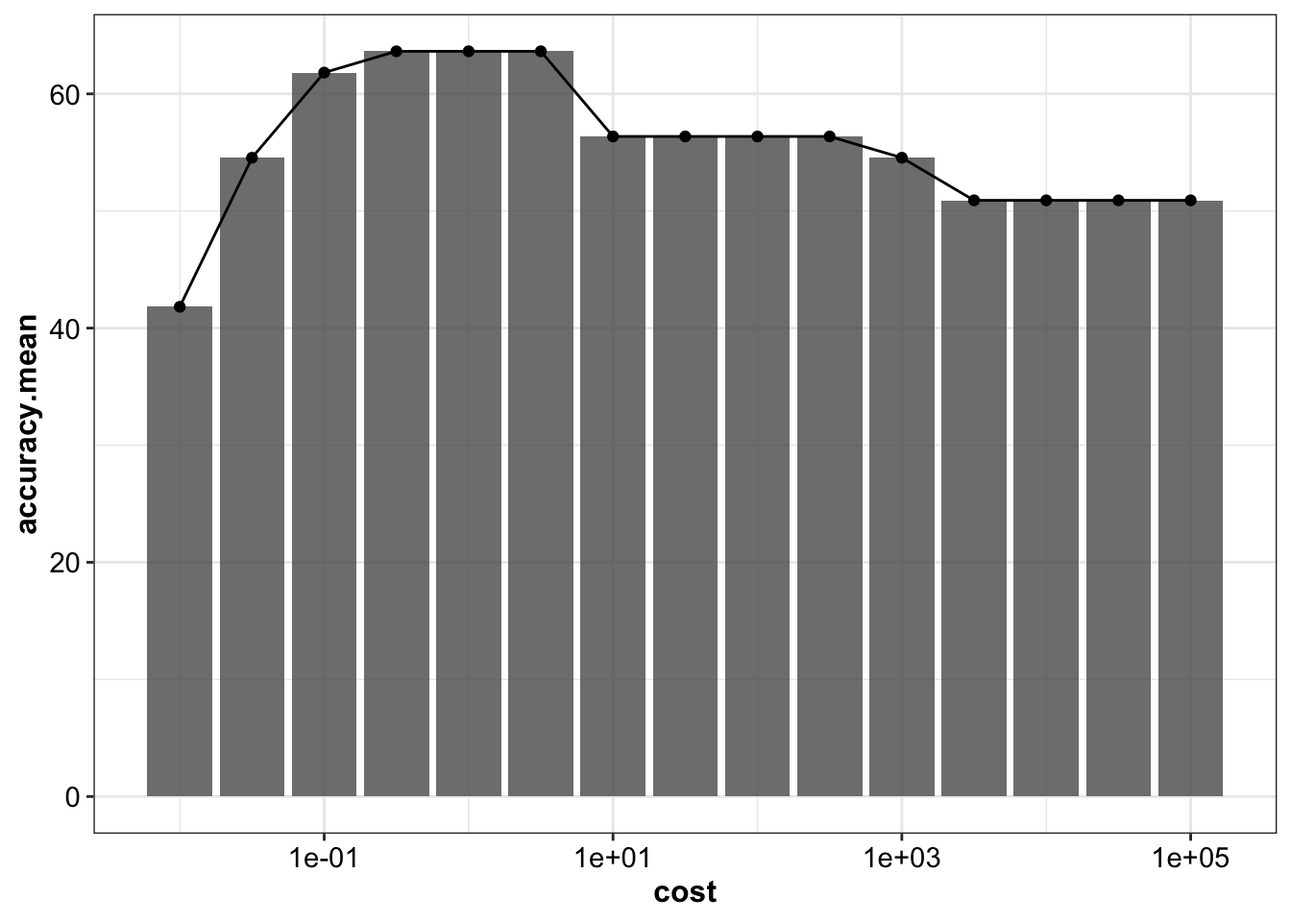
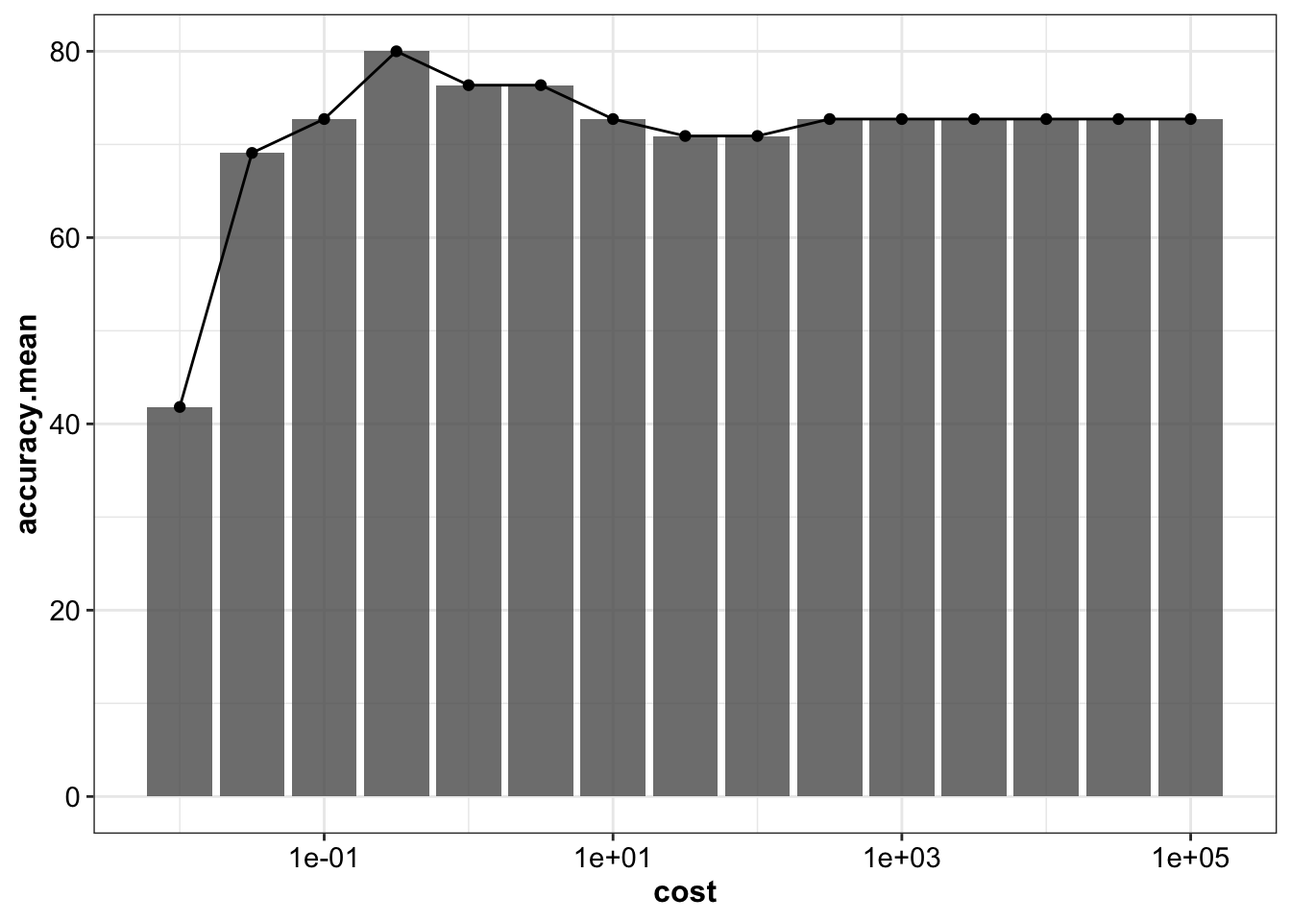
Update

diff --git a/LemonMLscript.html b/LemonMLscript.html
@@ -408,7 +408,7 @@ library(randomForest)
 
 # finally load tidyverse avoiding key functions from being masked
 library(tidyverse)</code></pre>
-<pre class="r"><code>set.seed(2020)</code></pre>
+<pre class="r"><code>set.seed(2021)</code></pre>
 <pre class="r"><code>theme_set(theme_bw() +
             theme(strip.background = element_blank(),
                   strip.text = element_text(face = &quot;bold&quot;, size = 11),
@@ -524,8 +524,8 @@ plot_ly(PC, x = ~ PC1, y =  ~PC2, z =  ~PC3, color = ~ type) %&gt;%
            zaxis = list(title = paste0(&quot;PC3, &quot;, round(eigen.values[3]/sum(eigen.values)* 100, 1), &quot;% explained&quot;))
          )
   )</code></pre>
-<div id="htmlwidget-b85bf888dc62471906a9" style="width:768px;height:768px;" class="plotly html-widget"></div>
-<script type="application/json" data-for="htmlwidget-b85bf888dc62471906a9">{"x":{"visdat":{"10eff5bf4ef":["function () ","plotlyVisDat"]},"cur_data":"10eff5bf4ef","attrs":{"10eff5bf4ef":{"x":{},"y":{},"z":{},"color":{},"alpha_stroke":1,"sizes":[10,100],"spans":[1,20],"type":"scatter3d","mode":"markers","inherit":true}},"layout":{"margin":{"b":40,"l":60,"t":25,"r":10},"title":"3D Interactive PCA","scene":{"xaxis":{"title":"PC1, 38.1% explained"},"yaxis":{"title":"PC2, 13.4% explained"},"zaxis":{"title":"PC3, 9.9% explained"}},"hovermode":"closest","showlegend":true},"source":"A","config":{"showSendToCloud":false},"data":[{"x":[1.29245608021602,0.247327318026684,-2.56149506852184,1.02216854811322,1.02144854861423,0.221324174361603,-0.349045041869286,-0.38581323603689,-1.4821455186857,-2.37404641039611,-2.47684985252583,-3.72650845128052,0.153931476992609,-0.941729558563705,-1.50068529531973,-2.10972450438429,-2.64980884826357,2.13613894537144,-2.37418031730669,0.478180094023784,1.845971833046,-1.45374887861705,1.19418232583957,1.91430361040799,0.066834320382271,1.2127175590955,1.76579567376996],"y":[0.695526168184717,0.590944665242343,-4.1645585667584,1.13948649493847,1.04367370014434,1.38230502942391,-1.98630912501223,1.93770321135043,2.36212232905973,2.14999681352786,2.34829500113664,2.18440733827298,2.75578768016132,3.13716969340722,3.00971177877454,2.81693148679536,1.91489823211499,-1.06640858061311,-2.80357152637204,-0.748953948325587,-1.05436264362873,-2.33095577365992,0.00625489147679137,-0.325453367664005,-1.10722803571808,-0.0557751287201965,0.467505744789272],"z":[-0.153272397784193,-1.07588827668465,4.68854824204557,0.786203717659978,0.029601316090255,0.219153679839619,-3.60423289888726,1.2676637692362,0.708759504389941,1.53239208288905,1.28333869274744,0.31955812246784,1.06207167374108,0.748548555977624,0.877678989830995,1.23804936420199,0.0231827277148735,2.34709583631241,0.298763599570472,-0.868563972996611,1.19368249250316,0.431635919627839,0.141387674072584,1.72946532281876,0.424389806543768,-0.570694829818461,0.0592676898020226],"type":"scatter3d","mode":"markers","name":"adulterated_L_J","marker":{"color":"rgba(102,194,165,1)","line":{"color":"rgba(102,194,165,1)"}},"textfont":{"color":"rgba(102,194,165,1)"},"error_y":{"color":"rgba(102,194,165,1)"},"error_x":{"color":"rgba(102,194,165,1)"},"line":{"color":"rgba(102,194,165,1)"},"frame":null},{"x":[1.11105606348818,0.603039915546309,1.21353582832768,-1.35787019158325,0.19225080551594,-1.21246667581881,-1.45178082404376,-5.68026361836666,-3.16377269996762,-5.02990803003648,-4.96543833095703,-6.93055161425824,-3.2136386608419,-2.25524613183358,-1.90423074658712,-2.40873185573606,-4.16866825809589,-1.24964086402868,0.185187190398568,-2.99485684015602,0.111484893291767,-0.858635390662749,-1.54239194864953,2.07225720546971,1.83438570934901,1.77479111647483],"y":[-0.0859376154201105,-0.142252660854825,0.339587586095071,-0.152230195818979,0.345390365706661,0.260723038277785,-0.00618989387332358,-3.30564951725206,0.580460783900814,-0.00170437349004221,-2.46999529348503,0.183283634350539,-0.808450531398731,-0.558153587576732,-0.36941259219531,-1.77940596421968,-0.563238916320843,0.390317817157598,0.475794889065444,0.429704166707622,0.422730012901104,-0.0546266942913341,0.785547893407879,-0.920957728673648,-0.666756609984423,0.169127635494428],"z":[-0.817328459989141,-0.858211461675529,-0.629340350344767,-2.09800451069364,-1.18016988208466,-1.52645098158561,-1.4207164898772,-0.0830469642365655,-2.06787066093538,-1.90858964613215,-0.3866152999683,1.25046058688634,0.720261245486266,0.527260458222733,0.329804314863947,-0.544993314502189,0.557635333107548,-0.665821738241084,-0.782414382679238,-1.09934787994972,-0.993179712086061,-0.412911159184163,-0.747363795423164,2.28559867183411,1.56272953670896,0.0752991087137491],"type":"scatter3d","mode":"markers","name":"authentic_L_J","marker":{"color":"rgba(252,141,98,1)","line":{"color":"rgba(252,141,98,1)"}},"textfont":{"color":"rgba(252,141,98,1)"},"error_y":{"color":"rgba(252,141,98,1)"},"error_x":{"color":"rgba(252,141,98,1)"},"line":{"color":"rgba(252,141,98,1)"},"frame":null},{"x":[2.05714649351934,2.38757879319326,1.98706631927528,2.46898400690317,1.73913538312126,2.45951764380522,2.38254770319144,2.34711033045327,2.30378739310736,1.75433161273427,1.96369864134024,2.10522487111011,2.21860197339323,2.04435906039219,2.0544860415976,2.215836416796,2.68064964050441,2.25770659306511,1.49205524911911,1.67135779863506,1.90309179689125,2.3097740202158,1.98329764936216,2.31575899554558],"y":[0.423955238003994,0.00123198464260368,-0.700231723171998,0.556190798634687,-0.359181579935747,0.890399063146194,-0.108716821513531,0.395998235607263,0.463757866049253,-0.567813941502302,-0.870631862914607,-0.134451071866694,0.0869403450654771,-0.699917351924463,-0.0693727358762944,-0.0841103318097234,-1.84151340759914,0.334099918173264,-1.29982933293597,-1.17283776144364,-0.368996368680066,-0.588016740559321,-0.74470679201939,-0.339094836108358],"z":[-0.00271240614489784,-0.365869855855512,0.601645728672797,0.612065746738997,-0.35782594284662,0.883021326687573,-0.421366100870039,-0.225735328927382,-0.0744704279938564,-0.649403277140523,-0.977850240900579,-0.786210754766569,-0.226044698531477,-0.224402923208373,-0.615530933647594,-0.473465885341308,2.06979052487044,-0.17176827268735,-0.583666225719361,-1.24209006725691,-0.399331584083848,0.290684984898261,-0.249974151851627,-0.633948204241613],"type":"scatter3d","mode":"markers","name":"lemonade","marker":{"color":"rgba(141,160,203,1)","line":{"color":"rgba(141,160,203,1)"}},"textfont":{"color":"rgba(141,160,203,1)"},"error_y":{"color":"rgba(141,160,203,1)"},"error_x":{"color":"rgba(141,160,203,1)"},"line":{"color":"rgba(141,160,203,1)"},"frame":null}],"highlight":{"on":"plotly_click","persistent":false,"dynamic":false,"selectize":false,"opacityDim":0.2,"selected":{"opacity":1},"debounce":0},"shinyEvents":["plotly_hover","plotly_click","plotly_selected","plotly_relayout","plotly_brushed","plotly_brushing","plotly_clickannotation","plotly_doubleclick","plotly_deselect","plotly_afterplot","plotly_sunburstclick"],"base_url":"https://plot.ly"},"evals":[],"jsHooks":[]}</script>
+<div id="htmlwidget-44474b3e8cd160f85a98" style="width:768px;height:768px;" class="plotly html-widget"></div>
+<script type="application/json" data-for="htmlwidget-44474b3e8cd160f85a98">{"x":{"visdat":{"10eff4756659c":["function () ","plotlyVisDat"]},"cur_data":"10eff4756659c","attrs":{"10eff4756659c":{"x":{},"y":{},"z":{},"color":{},"alpha_stroke":1,"sizes":[10,100],"spans":[1,20],"type":"scatter3d","mode":"markers","inherit":true}},"layout":{"margin":{"b":40,"l":60,"t":25,"r":10},"title":"3D Interactive PCA","scene":{"xaxis":{"title":"PC1, 38.1% explained"},"yaxis":{"title":"PC2, 13.4% explained"},"zaxis":{"title":"PC3, 9.9% explained"}},"hovermode":"closest","showlegend":true},"source":"A","config":{"showSendToCloud":false},"data":[{"x":[1.29245608021602,0.247327318026684,-2.56149506852184,1.02216854811322,1.02144854861423,0.221324174361603,-0.349045041869286,-0.38581323603689,-1.4821455186857,-2.37404641039611,-2.47684985252583,-3.72650845128052,0.153931476992609,-0.941729558563705,-1.50068529531973,-2.10972450438429,-2.64980884826357,2.13613894537144,-2.37418031730669,0.478180094023784,1.845971833046,-1.45374887861705,1.19418232583957,1.91430361040799,0.066834320382271,1.2127175590955,1.76579567376996],"y":[0.695526168184717,0.590944665242343,-4.1645585667584,1.13948649493847,1.04367370014434,1.38230502942391,-1.98630912501223,1.93770321135043,2.36212232905973,2.14999681352786,2.34829500113664,2.18440733827298,2.75578768016132,3.13716969340722,3.00971177877454,2.81693148679536,1.91489823211499,-1.06640858061311,-2.80357152637204,-0.748953948325587,-1.05436264362873,-2.33095577365992,0.00625489147679137,-0.325453367664005,-1.10722803571808,-0.0557751287201965,0.467505744789272],"z":[-0.153272397784193,-1.07588827668465,4.68854824204557,0.786203717659978,0.029601316090255,0.219153679839619,-3.60423289888726,1.2676637692362,0.708759504389941,1.53239208288905,1.28333869274744,0.31955812246784,1.06207167374108,0.748548555977624,0.877678989830995,1.23804936420199,0.0231827277148735,2.34709583631241,0.298763599570472,-0.868563972996611,1.19368249250316,0.431635919627839,0.141387674072584,1.72946532281876,0.424389806543768,-0.570694829818461,0.0592676898020226],"type":"scatter3d","mode":"markers","name":"adulterated_L_J","marker":{"color":"rgba(102,194,165,1)","line":{"color":"rgba(102,194,165,1)"}},"textfont":{"color":"rgba(102,194,165,1)"},"error_y":{"color":"rgba(102,194,165,1)"},"error_x":{"color":"rgba(102,194,165,1)"},"line":{"color":"rgba(102,194,165,1)"},"frame":null},{"x":[1.11105606348818,0.603039915546309,1.21353582832768,-1.35787019158325,0.19225080551594,-1.21246667581881,-1.45178082404376,-5.68026361836666,-3.16377269996762,-5.02990803003648,-4.96543833095703,-6.93055161425824,-3.2136386608419,-2.25524613183358,-1.90423074658712,-2.40873185573606,-4.16866825809589,-1.24964086402868,0.185187190398568,-2.99485684015602,0.111484893291767,-0.858635390662749,-1.54239194864953,2.07225720546971,1.83438570934901,1.77479111647483],"y":[-0.0859376154201105,-0.142252660854825,0.339587586095071,-0.152230195818979,0.345390365706661,0.260723038277785,-0.00618989387332358,-3.30564951725206,0.580460783900814,-0.00170437349004221,-2.46999529348503,0.183283634350539,-0.808450531398731,-0.558153587576732,-0.36941259219531,-1.77940596421968,-0.563238916320843,0.390317817157598,0.475794889065444,0.429704166707622,0.422730012901104,-0.0546266942913341,0.785547893407879,-0.920957728673648,-0.666756609984423,0.169127635494428],"z":[-0.817328459989141,-0.858211461675529,-0.629340350344767,-2.09800451069364,-1.18016988208466,-1.52645098158561,-1.4207164898772,-0.0830469642365655,-2.06787066093538,-1.90858964613215,-0.3866152999683,1.25046058688634,0.720261245486266,0.527260458222733,0.329804314863947,-0.544993314502189,0.557635333107548,-0.665821738241084,-0.782414382679238,-1.09934787994972,-0.993179712086061,-0.412911159184163,-0.747363795423164,2.28559867183411,1.56272953670896,0.0752991087137491],"type":"scatter3d","mode":"markers","name":"authentic_L_J","marker":{"color":"rgba(252,141,98,1)","line":{"color":"rgba(252,141,98,1)"}},"textfont":{"color":"rgba(252,141,98,1)"},"error_y":{"color":"rgba(252,141,98,1)"},"error_x":{"color":"rgba(252,141,98,1)"},"line":{"color":"rgba(252,141,98,1)"},"frame":null},{"x":[2.05714649351934,2.38757879319326,1.98706631927528,2.46898400690317,1.73913538312126,2.45951764380522,2.38254770319144,2.34711033045327,2.30378739310736,1.75433161273427,1.96369864134024,2.10522487111011,2.21860197339323,2.04435906039219,2.0544860415976,2.215836416796,2.68064964050441,2.25770659306511,1.49205524911911,1.67135779863506,1.90309179689125,2.3097740202158,1.98329764936216,2.31575899554558],"y":[0.423955238003994,0.00123198464260368,-0.700231723171998,0.556190798634687,-0.359181579935747,0.890399063146194,-0.108716821513531,0.395998235607263,0.463757866049253,-0.567813941502302,-0.870631862914607,-0.134451071866694,0.0869403450654771,-0.699917351924463,-0.0693727358762944,-0.0841103318097234,-1.84151340759914,0.334099918173264,-1.29982933293597,-1.17283776144364,-0.368996368680066,-0.588016740559321,-0.74470679201939,-0.339094836108358],"z":[-0.00271240614489784,-0.365869855855512,0.601645728672797,0.612065746738997,-0.35782594284662,0.883021326687573,-0.421366100870039,-0.225735328927382,-0.0744704279938564,-0.649403277140523,-0.977850240900579,-0.786210754766569,-0.226044698531477,-0.224402923208373,-0.615530933647594,-0.473465885341308,2.06979052487044,-0.17176827268735,-0.583666225719361,-1.24209006725691,-0.399331584083848,0.290684984898261,-0.249974151851627,-0.633948204241613],"type":"scatter3d","mode":"markers","name":"lemonade","marker":{"color":"rgba(141,160,203,1)","line":{"color":"rgba(141,160,203,1)"}},"textfont":{"color":"rgba(141,160,203,1)"},"error_y":{"color":"rgba(141,160,203,1)"},"error_x":{"color":"rgba(141,160,203,1)"},"line":{"color":"rgba(141,160,203,1)"},"frame":null}],"highlight":{"on":"plotly_click","persistent":false,"dynamic":false,"selectize":false,"opacityDim":0.2,"selected":{"opacity":1},"debounce":0},"shinyEvents":["plotly_hover","plotly_click","plotly_selected","plotly_relayout","plotly_brushed","plotly_brushing","plotly_clickannotation","plotly_doubleclick","plotly_deselect","plotly_afterplot","plotly_sunburstclick"],"base_url":"https://plot.ly"},"evals":[],"jsHooks":[]}</script>
 </div>
 <div id="lda-full-data" class="section level2">
 <h2><span class="header-section-number">3.4</span> LDA (full data)</h2>
@@ -767,16 +767,16 @@ d.tune.svm.radial</code></pre>
 ## # Groups:   gamma [17]
 ##     gamma    cost accuracy.mean accuracy.sd
 ##     &lt;dbl&gt;   &lt;dbl&gt;         &lt;dbl&gt;       &lt;dbl&gt;
-##  1 0.1       3.16          80.0        17.5
-##  2 0.1       1             78.2        15.2
-##  3 0.0316   10             76.4        19.9
-##  4 0.1      10             76.4        18.9
-##  5 0.01     31.6           74.5        17.5
-##  6 0.0316   31.6           74.5        17.5
-##  7 0.1      31.6           74.5        17.5
-##  8 0.1     100             74.5        19.7
-##  9 0.1     316.            74.5        19.7
-## 10 0.1    1000             74.5        19.7
+##  1 0.001    100            81.8        9.09
+##  2 0.0316    10            81.8       11.1 
+##  3 0.1       10            81.8        9.09
+##  4 0.1       31.6          81.8        9.09
+##  5 0.1      100            81.8        9.09
+##  6 0.1      316.           81.8        9.09
+##  7 0.1     1000            81.8        9.09
+##  8 0.1     3162.           81.8        9.09
+##  9 0.1    10000            81.8        9.09
+## 10 0.1    31623.           81.8        9.09
 ## # … with 245 more rows</code></pre>
 <pre class="r"><code># Func. def: plotting SVM hyper-parameter tuning result
 func.plot.tune.HyperParam = function( data, hyper1, hyper2){ 
@@ -827,16 +827,16 @@ d.tune.svm.polynomial</code></pre>
 ## # Groups:   degree [6]
 ##    degree     cost accuracy.mean accuracy.sd
 ##     &lt;int&gt;    &lt;dbl&gt;         &lt;dbl&gt;       &lt;dbl&gt;
-##  1      3     10            74.5        11.9
-##  2      3     31.6          69.1        13.8
-##  3      3    100            69.1        10.4
-##  4      3    316.           69.1        10.4
-##  5      3   1000            69.1        10.4
-##  6      3   3162.           69.1        10.4
-##  7      3  10000            69.1        10.4
-##  8      3  31623.           69.1        10.4
-##  9      3 100000            69.1        10.4
-## 10      5    100            69.1        13.8
+##  1      3     10            80.0        14.9
+##  2      3     31.6          78.2        16.5
+##  3      3    316.           78.2        16.5
+##  4      3   1000            78.2        16.5
+##  5      3   3162.           78.2        16.5
+##  6      3  10000            78.2        16.5
+##  7      3  31623.           78.2        16.5
+##  8      3 100000            78.2        16.5
+##  9      5     31.6          78.2        10.4
+## 10      5    100            78.2        18.9
 ## # … with 80 more rows</code></pre>
 <pre class="r"><code># plot tune result of polynomial kernel
 plt.svm.tune.polynomial = 
@@ -869,21 +869,21 @@ d.tune.svm.linear</code></pre>
 <pre><code>## # A tibble: 15 x 3
 ##           cost accuracy.mean accuracy.sd
 ##          &lt;dbl&gt;         &lt;dbl&gt;       &lt;dbl&gt;
-##  1      0.316           63.6        18.2
-##  2      1               63.6        20.3
-##  3      3.16            63.6        20.3
-##  4      0.1             61.8        14.9
-##  5     10               56.4        17.5
-##  6     31.6             56.4        17.5
-##  7    100               56.4        17.5
-##  8    316.              56.4        19.7
-##  9      0.0316          54.5        17.0
-## 10   1000               54.5        20.3
-## 11   3162.              50.9        23.7
-## 12  10000               50.9        23.7
-## 13  31623.              50.9        23.7
-## 14 100000               50.9        23.7
-## 15      0.01            41.8        19.9</code></pre>
+##  1      0.316           80.0        7.61
+##  2      1               76.4       13.8 
+##  3      3.16            76.4       10.4 
+##  4      0.1             72.7        6.43
+##  5     10               72.7        6.43
+##  6    316.              72.7       11.1 
+##  7   1000               72.7       11.1 
+##  8   3162.              72.7       11.1 
+##  9  10000               72.7       11.1 
+## 10  31623.              72.7       11.1 
+## 11 100000               72.7       11.1 
+## 12     31.6             70.9        9.96
+## 13    100               70.9        9.96
+## 14      0.0316          69.1        4.98
+## 15      0.01            41.8       13.8</code></pre>
 <pre class="r"><code>d.tune.svm.linear %&gt;% ggplot(aes(x = cost, y = accuracy.mean)) + 
   geom_bar(stat = &quot;identity&quot;, alpha = .8) + geom_point() + geom_line() + 
   scale_x_log10() </code></pre>
@@ -896,9 +896,9 @@ rbind(k1, k2, k3)</code></pre>
 <pre><code>## # A tibble: 3 x 3
 ##   accuracy.mean accuracy.sd kernel    
 ##           &lt;dbl&gt;       &lt;dbl&gt; &lt;chr&gt;     
-## 1          80.0        17.5 radial    
-## 2          74.5        11.9 polynomial
-## 3          63.6        18.2 linear</code></pre>
+## 1          81.8        9.09 radial    
+## 2          80.0       14.9  polynomial
+## 3          80.0        7.61 linear</code></pre>
 <pre class="r"><code>cv.svm = k1 %&gt;% mutate(model = &quot;SVM&quot;)</code></pre>
 </div>
 </div>
@@ -910,10 +910,10 @@ rbind(k1, k2, k3)</code></pre>
 
 accuracy.training.svm = sum(predict(mdl.svm) == trainingSet.scaled$type) / nrow(trainingSet.scaled)*100
 cat(&quot;Accuracy on the training set is&quot;, accuracy.training.svm, &quot;%.&quot;)</code></pre>
-<pre><code>## Accuracy on the training set is 96.36364 %.</code></pre>
+<pre><code>## Accuracy on the training set is 89.09091 %.</code></pre>
 <pre class="r"><code>accuracy.testing.svm = sum(predict(mdl.svm, newdata = testingSet.scaled) == testingSet.scaled$type) / nrow(testingSet.scaled) *100
 cat(&quot;Accuracy on the testing set is&quot;, accuracy.testing.svm, &quot;%.&quot;)</code></pre>
-<pre><code>## Accuracy on the testing set is 81.81818 %.</code></pre>
+<pre><code>## Accuracy on the testing set is 63.63636 %.</code></pre>
 <pre class="r"><code># confusion matrix
 predict.SVM = predict(mdl.svm, newdata = testingSet.scaled)
 
@@ -949,7 +949,7 @@ mdl.lda = lda(data = trainingSet.scaled, type ~., prior = rep(1/3, 3))
 # Prediction on the training set
 accuracy.training.LDA = sum(predict(mdl.lda)$class == trainingSet.scaled$type) / nrow(trainingSet.scaled) * 100
 cat(&quot;Accuracy on the training set by Linear Discriminant Analysis is&quot;, accuracy.training.LDA, &quot;%.&quot; )</code></pre>
-<pre><code>## Accuracy on the training set by Linear Discriminant Analysis is 83.63636 %.</code></pre>
+<pre><code>## Accuracy on the training set by Linear Discriminant Analysis is 87.27273 %.</code></pre>
 <pre class="r"><code># Prediction on the testing set 
 fitted.lda = predict(mdl.lda, newdata = testingSet.scaled)
 predict.LDA = fitted.lda$class
@@ -959,7 +959,7 @@ cf.lda = table(predict.LDA, testingSet.scaled$type) %&gt;%
 
 accuracy.testing.lda = sum(predict(mdl.lda, newdata = testingSet.scaled)$class == testingSet.scaled$type) / nrow(testingSet.scaled) * 100
 cat(&quot;Accuracy on the testing set by Linear Discriminant Analysis is&quot;, accuracy.testing.lda, &quot;%.&quot;)</code></pre>
-<pre><code>## Accuracy on the testing set by Linear Discriminant Analysis is 81.81818 %.</code></pre>
+<pre><code>## Accuracy on the testing set by Linear Discriminant Analysis is 59.09091 %.</code></pre>
 <pre class="r"><code># probability distribution sample-wise
 d.prob.lda = fitted.lda$posterior %&gt;% as_tibble() %&gt;% mutate(model = &quot;LDA&quot;)</code></pre>
 </div>
@@ -997,16 +997,16 @@ d.tune.RF</code></pre>
 ## # Groups:   trees [10]
 ##    trees features accuracy.mean accuracy.sd
 ##    &lt;dbl&gt;    &lt;int&gt;         &lt;dbl&gt;       &lt;dbl&gt;
-##  1   400        3          78.2       10.4 
-##  2   500        2          78.2       10.4 
-##  3   500        5          78.2       10.4 
-##  4   700        2          78.2       10.4 
-##  5  1000        2          78.2       10.4 
-##  6   100        2          76.4       12.2 
-##  7   100        3          76.4        8.13
-##  8   100        4          76.4       12.2 
-##  9   200        2          76.4        8.13
-## 10   200        5          76.4        8.13
+##  1   100        3          81.8        6.43
+##  2   100        4          81.8        6.43
+##  3   200        6          81.8        6.43
+##  4   400        5          81.8        6.43
+##  5   400        6          81.8        6.43
+##  6   500        5          81.8        6.43
+##  7   500        6          81.8        6.43
+##  8   600        3          81.8        6.43
+##  9   600        5          81.8        6.43
+## 10   600        6          81.8        6.43
 ## # … with 60 more rows</code></pre>
 <pre class="r"><code>plt.RF.tune = d.tune.RF %&gt;% 
   func.plot.tune.HyperParam(hyper1 = &quot;trees&quot;, hyper2 = &quot;features&quot;) +
@@ -1036,7 +1036,7 @@ cf.RF = table(predict.RF, testingSet.scaled$type) %&gt;%
 
 accuracy.testing.RF = sum(predict.RF == testingSet.scaled$type) / nrow(testingSet.scaled) * 100
 cat(&quot;Accuracy on the testing set using Random Forest is&quot;, accuracy.testing.RF, &quot;%&quot;) </code></pre>
-<pre><code>## Accuracy on the testing set using Random Forest is 90.90909 %</code></pre>
+<pre><code>## Accuracy on the testing set using Random Forest is 81.81818 %</code></pre>
 <pre class="r"><code># Probability distribution of predicted test set
 d.prob.RF = predict(mdl.rf, testingSet.scaled, type = &quot;prob&quot;) %&gt;%
   as_tibble() %&gt;%
@@ -1074,7 +1074,7 @@ cf.NB = table(predict.NB, testingSet.scaled$type) %&gt;%
 
 accuracy.testing.NB = sum(predict.NB == testingSet.scaled$type)/nrow(testingSet.scaled) * 100
 cat(&quot;Accuracy on the testing set using Naive Bayes is&quot;, accuracy.testing.NB, &quot;%.&quot;)</code></pre>
-<pre><code>## Accuracy on the testing set using Naive Bayes is 81.81818 %.</code></pre>
+<pre><code>## Accuracy on the testing set using Naive Bayes is 77.27273 %.</code></pre>
 <pre class="r"><code>d.prob.NB = predict(mdl.nb, testingSet.scaled[, -1], type = &quot;raw&quot;)  %&gt;%
   as_tibble() %&gt;% mutate(model = &quot;NB&quot;)
 # d.prob.NB</code></pre>
@@ -1112,7 +1112,7 @@ fitted.softmax.train = predict(softmax.cv, newx = trainingSet.scaled[, -1] %&gt;
 
 accuracy.training.LR = sum(fitted.softmax.train == trainingSet.scaled$type) / nrow(trainingSet.scaled) * 100
 cat(&quot;Accuracy on the training set using lasso-regularized softmax regression is&quot;, accuracy.training.LR, &quot;%.&quot;) </code></pre>
-<pre><code>## Accuracy on the training set using lasso-regularized softmax regression is 56.36364 %.</code></pre>
+<pre><code>## Accuracy on the training set using lasso-regularized softmax regression is 74.54545 %.</code></pre>
 <pre class="r"><code># Prediction on the testing set
 predict.softmax = predict(softmax.cv, newx = testingSet.scaled[, -1] %&gt;% as.matrix(),
                           s = softmax.cv$lambda.1se, type = &quot;class&quot;) %&gt;% c()
@@ -1122,12 +1122,13 @@ cf.LR = table(predict.softmax, testingSet.scaled$type) %&gt;%
 
 accuracy.testing.LR = sum(predict.softmax == testingSet.scaled$type) / nrow(testingSet.scaled) * 100
 cat(&quot;Accuracy on the training set using lasso-regularized softmax regression is&quot;, accuracy.testing.LR, &quot;%.&quot;) </code></pre>
-<pre><code>## Accuracy on the training set using lasso-regularized softmax regression is 68.18182 %.</code></pre>
+<pre><code>## Accuracy on the training set using lasso-regularized softmax regression is 63.63636 %.</code></pre>
 <pre class="r"><code>table(predict.softmax, testingSet.scaled$type)</code></pre>
 <pre><code>##                  
 ## predict.softmax   adulterated_L_J authentic_L_J lemonade
-##   adulterated_L_J               8             4        0
-##   lemonade                      0             3        7</code></pre>
+##   adulterated_L_J               3             1        0
+##   authentic_L_J                 2             4        0
+##   lemonade                      3             2        7</code></pre>
 <pre class="r"><code># Predicted probability distribution on the test set
 d.prob.LR = predict(softmax.cv, newx = testingSet.scaled[, -1] %&gt;% as.matrix(),
                     s = softmax.cv$lambda.1se, type = &quot;response&quot;) %&gt;%

diff --git a/Shiny_App_Script.html b/Shiny_App_Script.html
@@ -330,7 +330,7 @@ drop_auth()
 token = drop_auth()
 saveRDS(token, file = &quot;token.rds&quot;)
 
-d = drop_read_csv(file = &quot;Shiny lemon final data_CLEANED UP.csv&quot;) 
+d = drop_read_csv(file = &quot;Shiny lemon final data_CLEANED UP_new May.csv&quot;) 
 
 
 
@@ -535,7 +535,7 @@ ui &lt;- fluidPage(
                                           min = 500, max = 1200, value = 825, step = 25) )
                 ),
                 
-            
+                
                 br(),br(),
                 # download predicted result table
                 downloadButton(&quot;downloadPredict&quot;, &quot;Download predicted identity table&quot;,
@@ -582,7 +582,7 @@ ui &lt;- fluidPage(
                          
                          p(&quot;This section makes prediction of the identity of multile samples over three possible outcomes:  authentic lemon juice (&quot;, strong(&quot;AULJ&quot;), &quot;), adulterated lemon juice (&quot;, strong(&quot;ADLJ&quot;), &quot;), and lemonade beverages (&quot;, strong(&quot;LMND&quot;), &quot;). Users are encouraged to tightly follow the format of the template. Ensure that the content value is numeric and that the column header is not changed before uploading the dataset to this application.&quot;, style = &quot;color:black; font-size:105%;&quot;),
                          
-                         p(&quot;The default presents the prediction result of the template data&quot;, em(&quot;per se,&quot;), &quot;which is also the dataset used to train the models. For user’s reference, original samples 1-26 are AULJ, 27-62 ADLJ, and 63-86 LMND.&quot;, style = &quot;color:black; font-size:105%;&quot;),  
+                         p(&quot;The default presents the prediction result of the template data&quot;, em(&quot;per se,&quot;), &quot;which is also the dataset used to train the models. For user’s reference, for samples numbered below, 1-26 are AULJ, 27-53 ADLJ, and 54-77 LMND. Both RF and SVM well learnt from the training samples and predicted all training samples correctly.&quot;, style = &quot;color:black; font-size:105%;&quot;),  
                          
                          br(),
                          
@@ -600,6 +600,7 @@ ui &lt;- fluidPage(
                          strong(&quot;Table 1. Predicted identity of lemon juice products (result of Figure 1)&quot;, 
                                 style = &quot;font-size:105%&quot;),br(),br(),
                          DTOutput(&quot;batch.DT&quot;),
+                         
                          br(),br(),br(),br(),br())
             )
         )
@@ -760,6 +761,7 @@ server &lt;- function(input, output) {
     )
     
     
+    
     d.newSample.Batch.scaled = reactive({
         
         if (is.null(input$userfile)) { 
@@ -775,8 +777,8 @@ server &lt;- function(input, output) {
             
             return(d.newSample.Batch.scaled)
             
+        }  else {
             
-        } else {
             # Read user-input excel file
             infile &lt;- input$userfile
             d.newSample.Batch = read_excel(infile$datapath)
@@ -791,10 +793,9 @@ server &lt;- function(input, output) {
                 scale(center = vector.mean, scale = vector.std) %&gt;% as_tibble() # note that vector.mean/std in the global environment
             
             return(d.newSample.Batch.scaled)
-            
         }
-        
     })
+    
     
     batchResults = reactive({ 
         # PREDICT USING BUILT MODELS (FROM THE GLOBAL ENVIRONEMNT)
@@ -951,7 +952,7 @@ server &lt;- function(input, output) {
         } 
     )
     
-}
+    }
 
 # Run the application 
 shinyApp(ui = ui, server = server)</code></pre>
